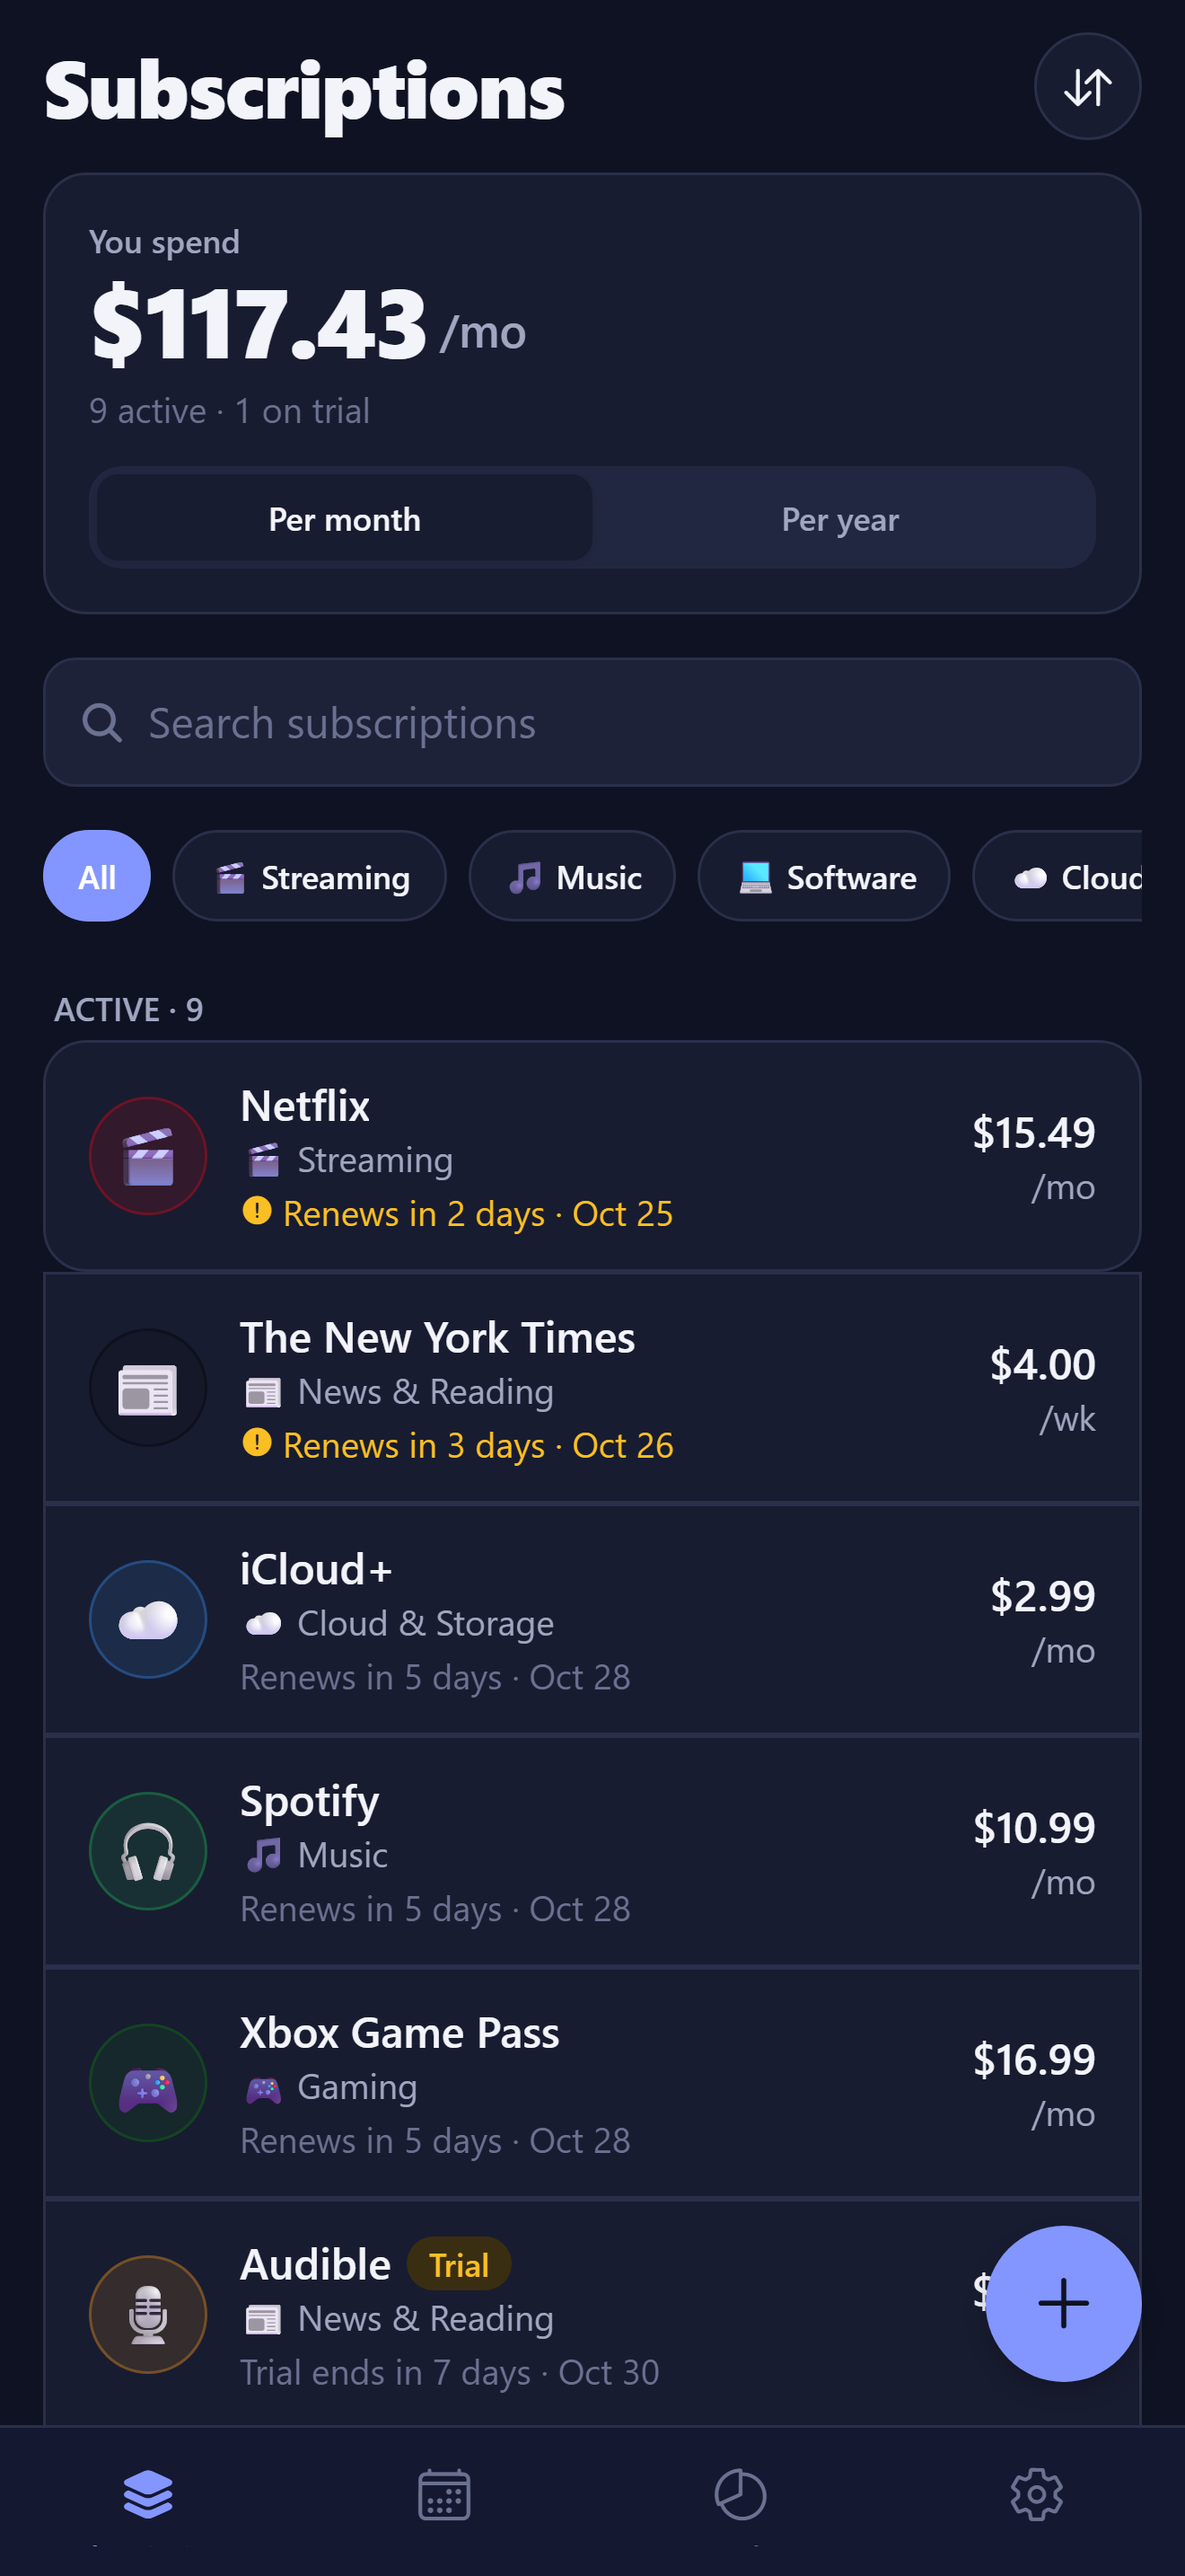
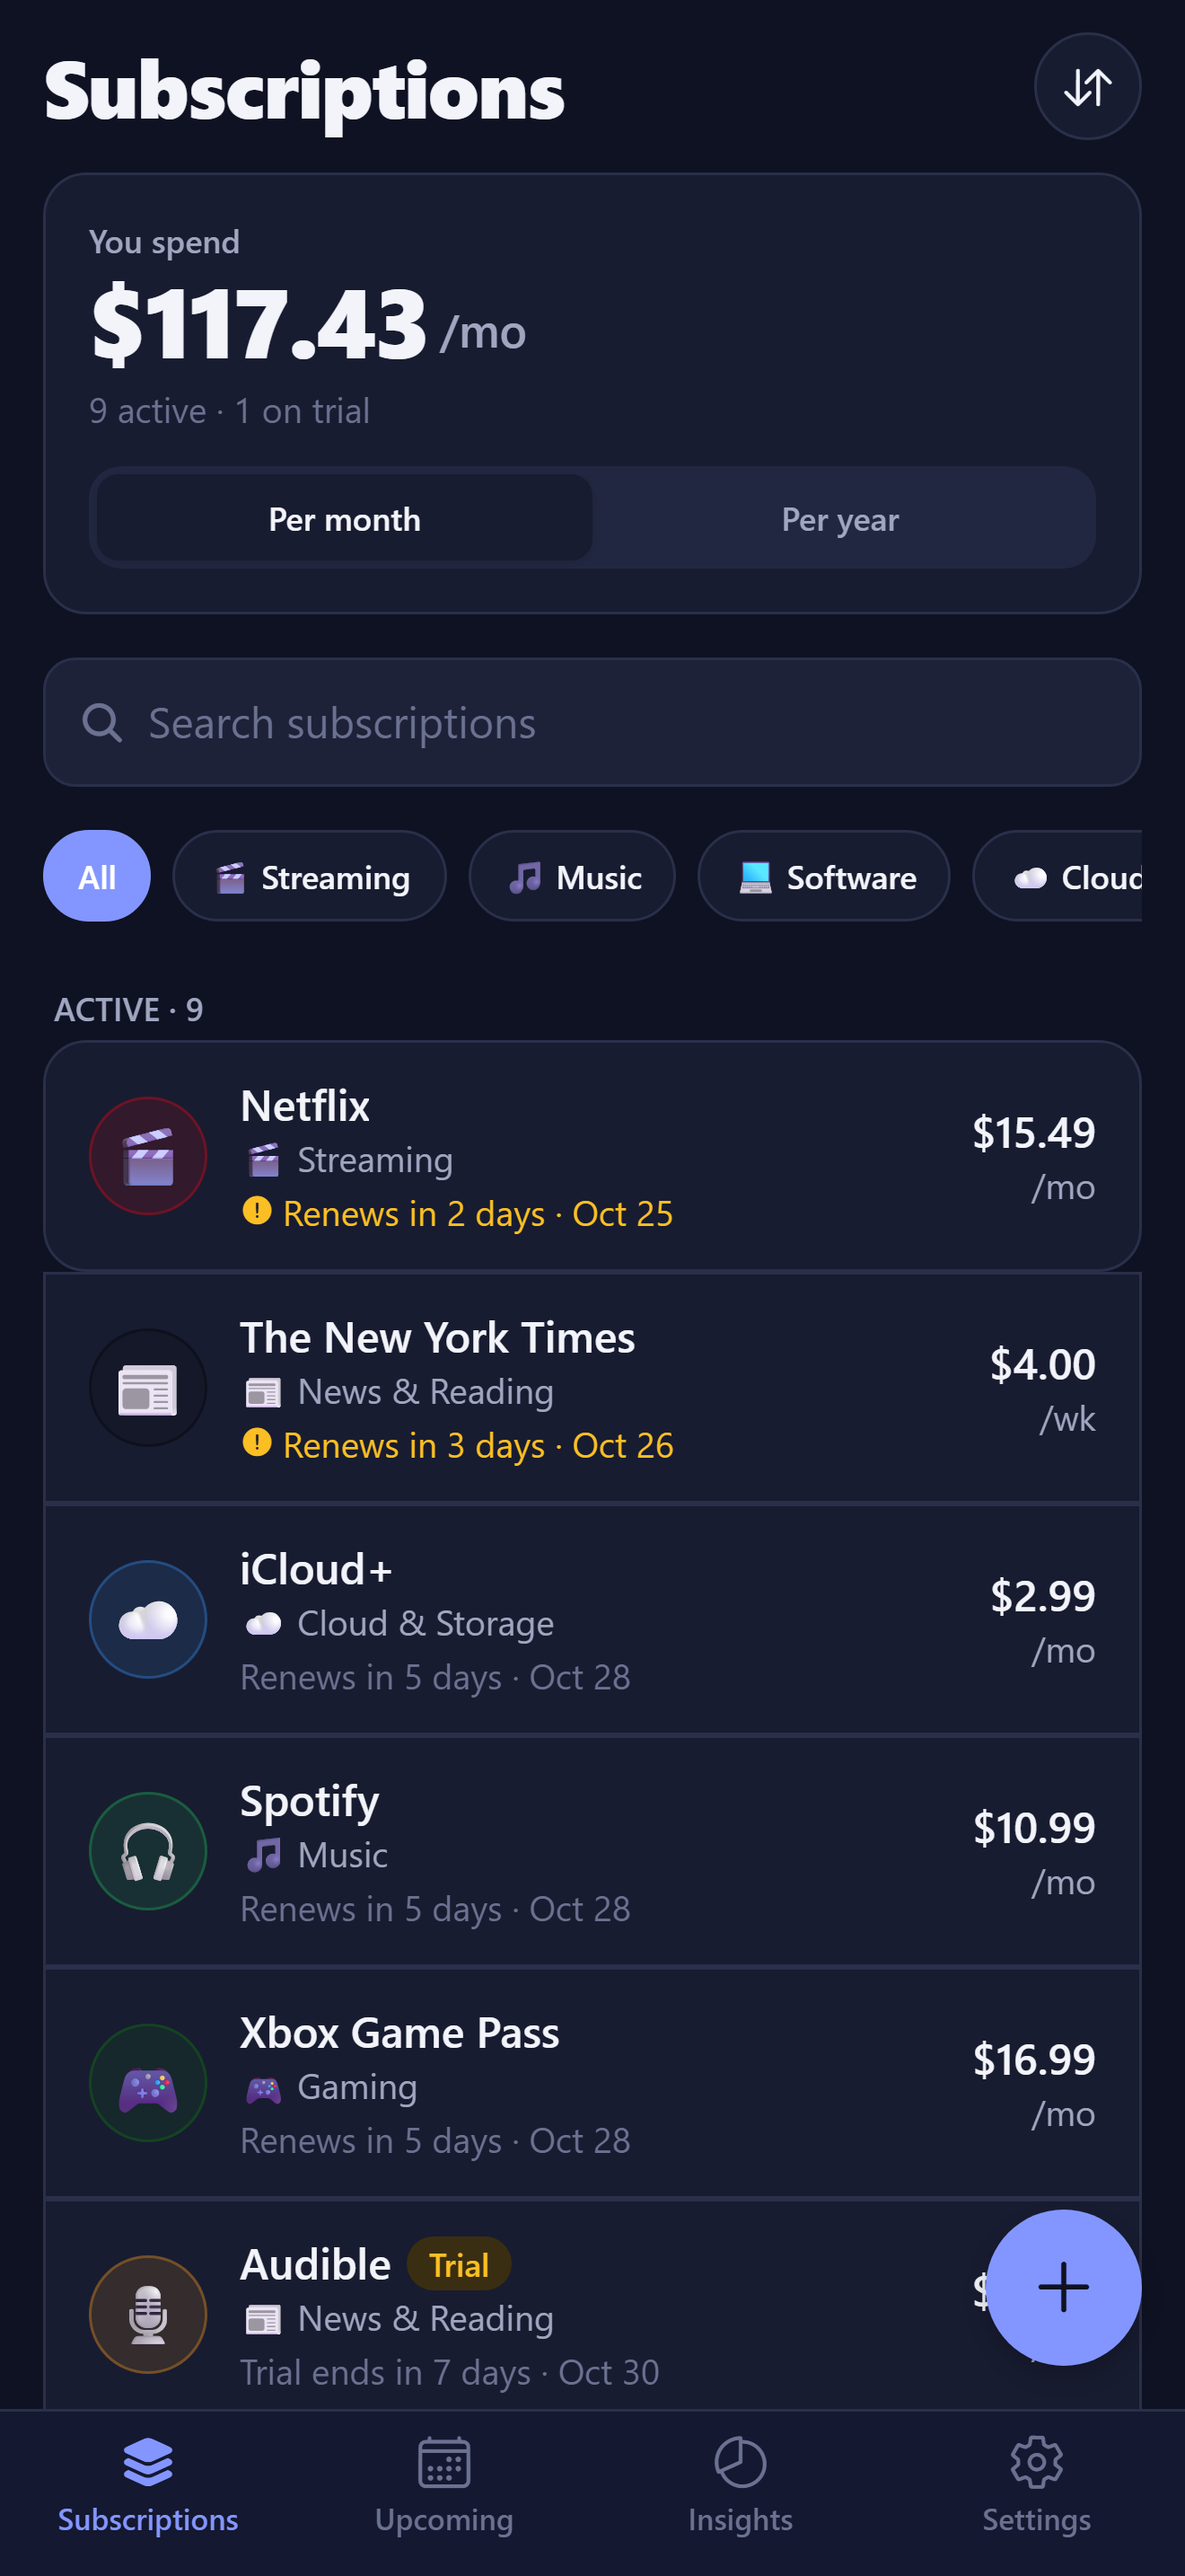
Fix tab bar height so labels are never clipped; regenerate screenshots

diff --git a/src/app/(tabs)/_layout.tsx b/src/app/(tabs)/_layout.tsx
@@ -13,7 +13,7 @@ function icon(active: IconName, inactive: IconName) {
   };
 }
 
-const TAB_BAR_CONTENT_HEIGHT = 56;
+const TAB_BAR_CONTENT_HEIGHT = 62;
 
 export default function TabsLayout() {
   const { colors } = useTheme();
@@ -24,15 +24,14 @@ export default function TabsLayout() {
         headerShown: false,
         tabBarActiveTintColor: colors.primary,
         tabBarInactiveTintColor: colors.textFaint,
+        // The bar adds the bottom safe-area inset as padding itself; the height must include it.
+        // Item content (padding + icon + label) needs about 52px, more than the 49px platform default.
         tabBarStyle: {
           backgroundColor: colors.tabBar,
           borderTopColor: colors.border,
           height: TAB_BAR_CONTENT_HEIGHT + insets.bottom,
-          paddingTop: 6,
-          paddingBottom: insets.bottom + 6,
         },
         tabBarLabelStyle: { fontSize: 11, fontWeight: '600', lineHeight: 14 },
-        tabBarIconStyle: { marginBottom: 2 },
         sceneStyle: { backgroundColor: colors.background },
       }}
     >
